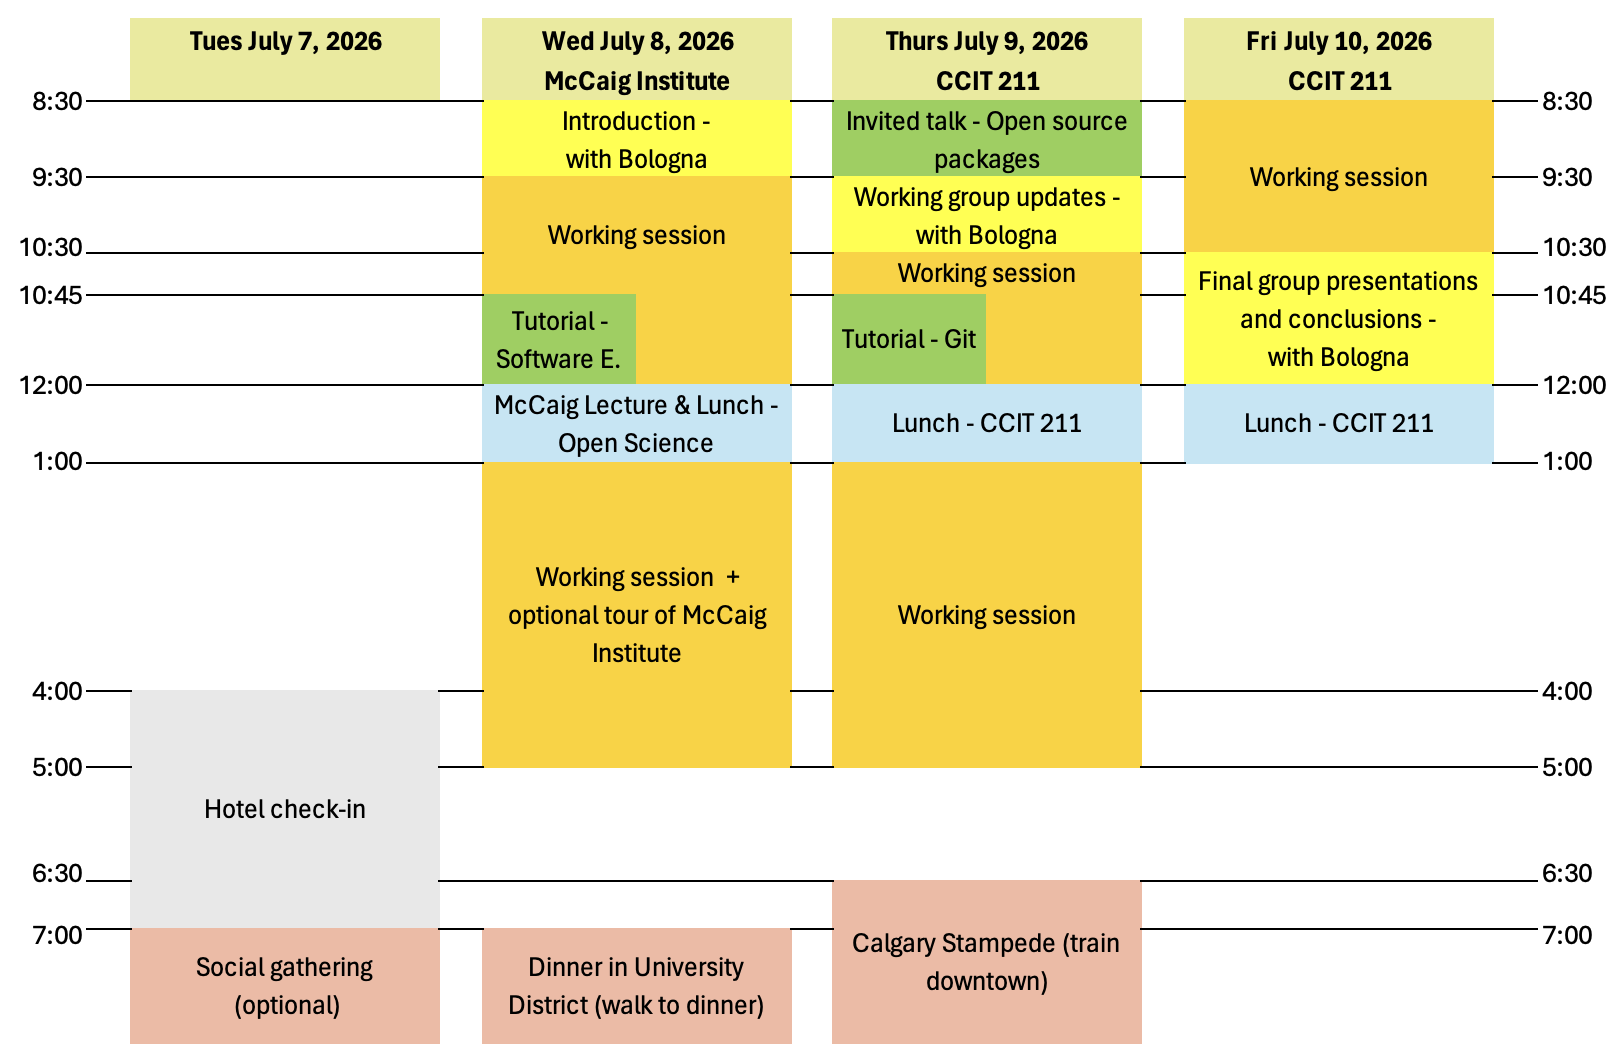
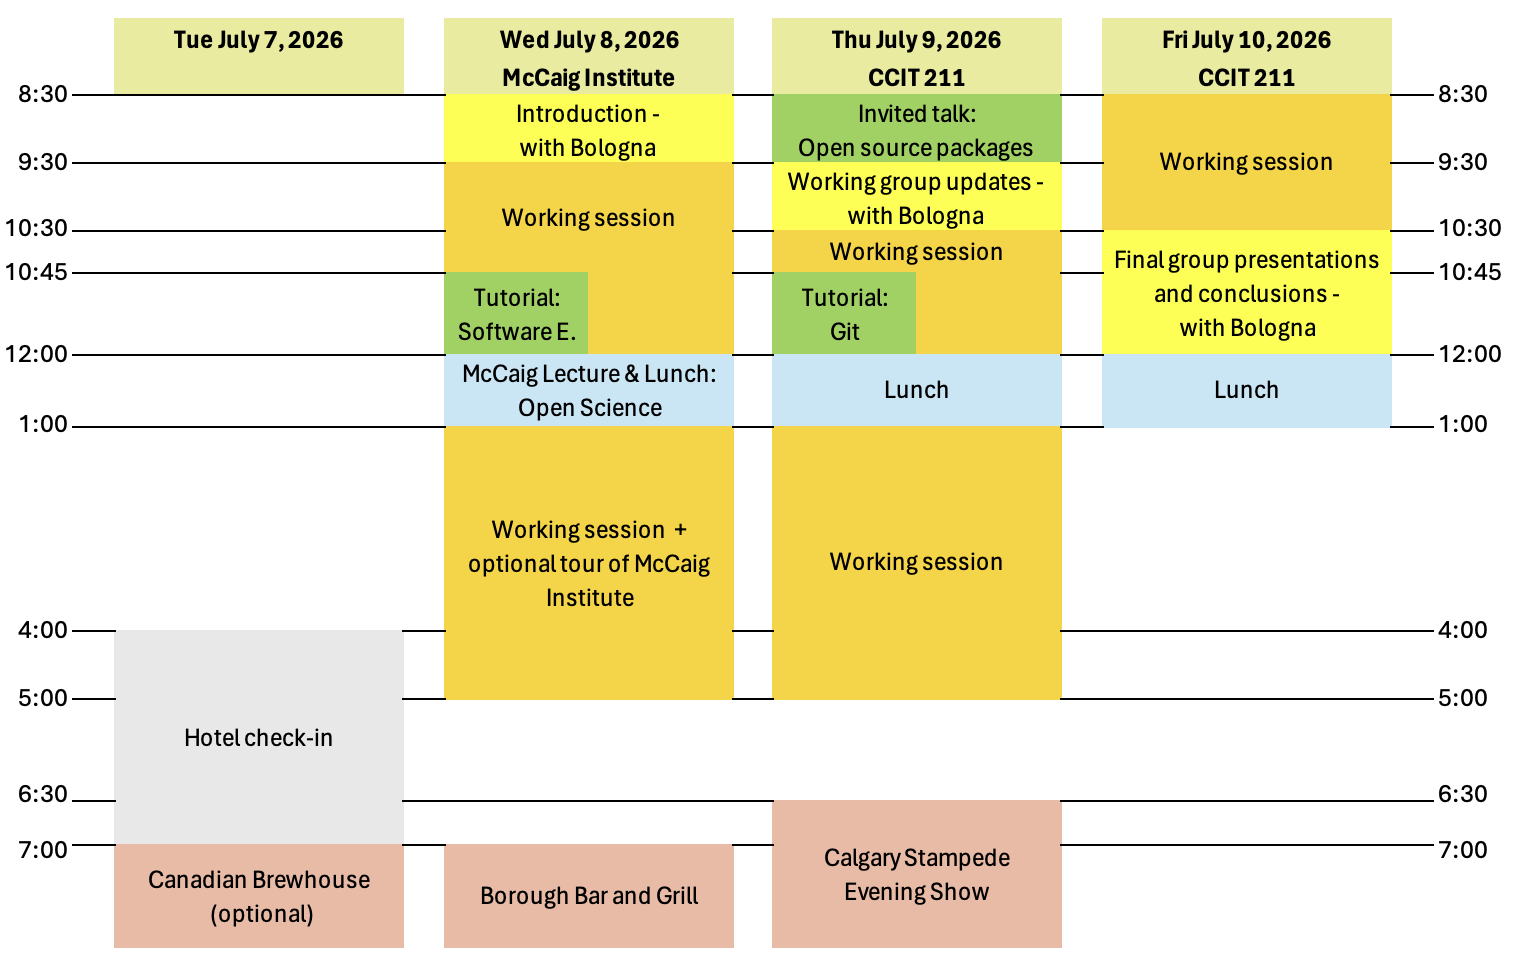
Update program, fix links

diff --git a/README.md b/README.md
@@ -2,8 +2,6 @@
 ## 3rd workshop of the [Open and Reproducible Musculoskeletal Imaging Research (ORMIR) Community](https://ormircommunity.github.io/)
 Main financial support by Canadian Institutes for Health Research, Planning and Dissemination Grant  
 Financial support for Distinguished Speaker: McCaig Institute for Bone and Joint Health
-<!--Sponsors: xxx-->
-  
 
 Dates: July 8-10, 2026
 
@@ -27,18 +25,13 @@ In this page, you will find:
 - [Program](#Program)
   - [Working groups](#working-groups)
   - [Invited speakers](#invited-speakers)
-  <!-- - [Hackathons](#hackathons), [Tutorials](#tutorials), , [Walk/hike](#walkhike), [Other material](#other-material)   --> 
 - [Participants](#participants)  
-- [Staying, eating, and travelling](#stayingeatingtravelling)    
-  - [Accommodation](#accommodation), [Meals](#meals), [Public transportation](#public-transportation), [Travel reimbursements](#travel-reimbursements)  
+- [Staying, eating, and travelling](#staying-eating-and-travelling)    
+  - [Accommodation](#accommodation), [Meals and social activities](#meals-and-social-activities), [Transportation](#transportation), [Travel reimbursements](#travel-reimbursements)  
 <!--
 - [More](#more)   
   - [Accepted proposal](#accepted-proposal), [Final report](#final-report), [Final budget](#final-budget), [Photos](#photos) 
 -->
-
-<!--
-- [Tips](#tips)   
-  - [What you need to know about Switzerland](#What-you-need-to-know-about-the-Switzerland), [Practical information about Zurich](#Practical-information-about-Zurich), [Things to do or see in Zurich](#Things-to-do-or-see-in-Zurich)   -->
 
 ---
 
